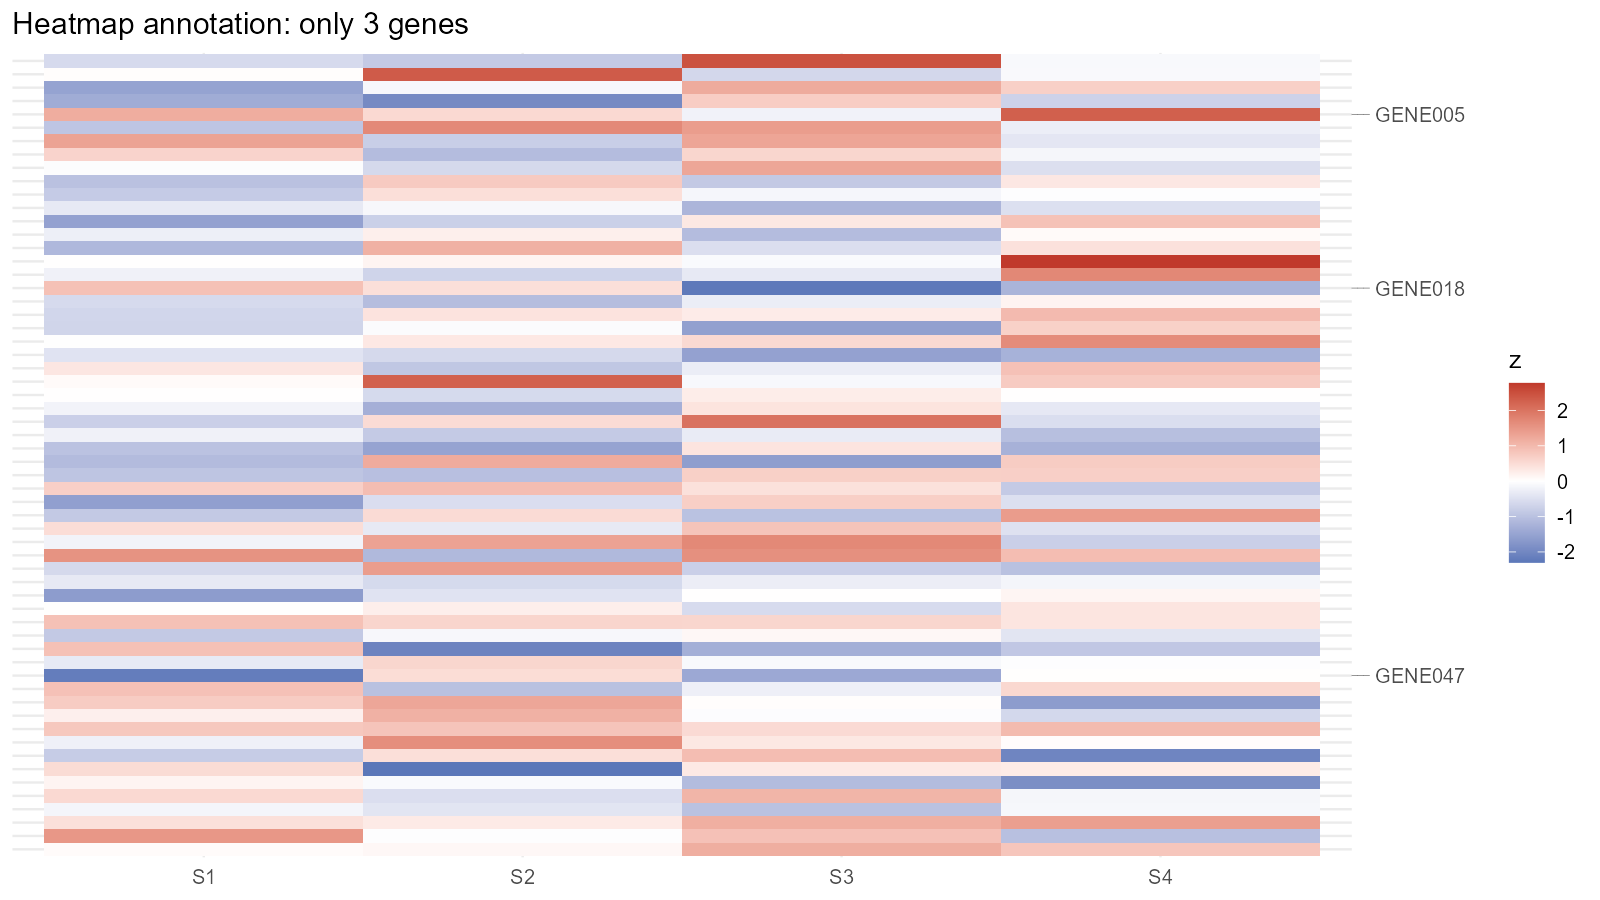
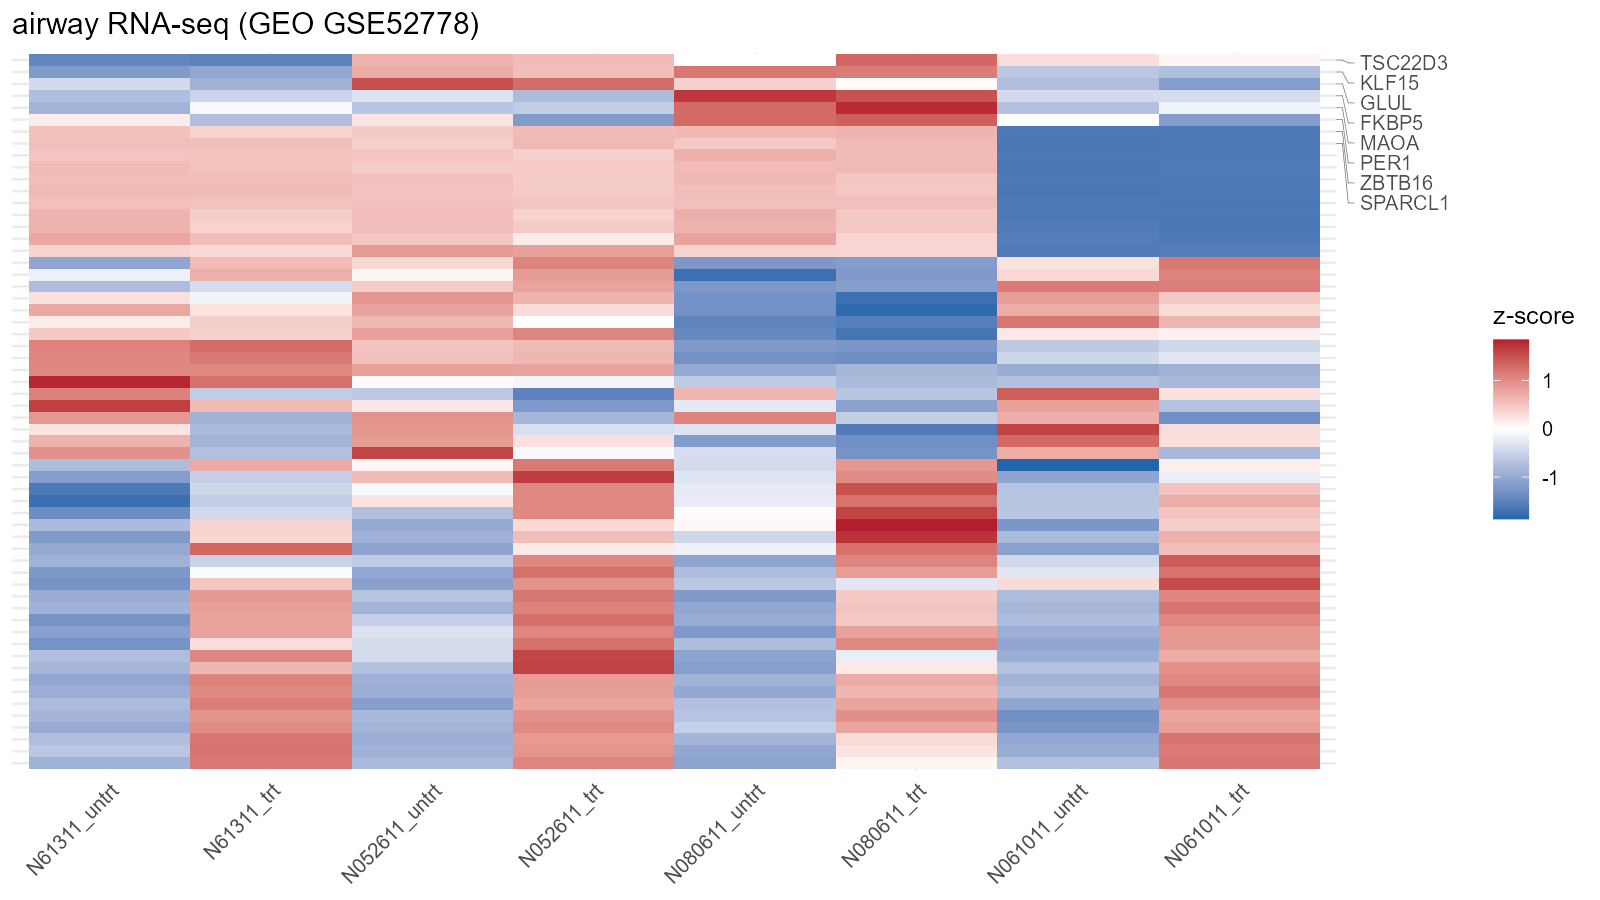
Use real GEO RNA-seq data (airway, GSE52778) for the heatmap examples
- vignettes (zh + en): the anno_mark section now plots the airway
  experiment (4 airway smooth muscle cell lines +/- dexamethasone) and
  labels the 8 glucocorticoid-responsive genes that cluster together
- README: same real-data figure (man/figures/README-anno-mark-1.png)
- new inst/examples/09-heatmap-rnaseq.R
- DESCRIPTION: airway and SummarizedExperiment added to Suggests

diff --git a/README.md b/README.md
@@ -193,12 +193,28 @@ axis and label only the rows you care about. Duplicate the axis with
 `guide_axis_smart()` on the copy:
 
 ``` r
-set.seed(11)
-genes <- paste0("GENE", sprintf("%03d", 1:60))
+## real RNA-seq data from GEO: airway (GSE52778), 4 cell lines +/- dexamethasone
+library(airway)
+data(airway, package = "airway")
+
+counts <- SummarizedExperiment::assay(airway, "counts")
+cpm <- t(t(counts) / colSums(counts)) * 1e6
+logcpm <- log2(cpm[rowSums(cpm > 1) >= 4, ] + 1)
+
+vars <- apply(logcpm, 1, var)
+z <- t(scale(t(logcpm[names(sort(vars, decreasing = TRUE))[1:60], ])))
+ord <- hclust(dist(z), method = "ward.D2")$order
+sym <- SummarizedExperiment::rowData(airway)$symbol[match(rownames(z), rownames(airway))]
+gene_labels <- ifelse(is.na(sym[ord]) | sym[ord] == "", rownames(z)[ord], sym[ord])
+
+cd <- as.data.frame(SummarizedExperiment::colData(airway))
+sample_lab <- factor(paste(cd$cell, cd$dex, sep = "_"),
+                     levels = paste(cd$cell, cd$dex, sep = "_"))
+
 df_gene <- data.frame(
-  gene = factor(genes, levels = rev(genes)),
-  sample = rep(paste0("S", 1:4), each = 60),
-  z = round(rnorm(240), 2)
+  gene = factor(rep(rev(gene_labels), times = nrow(cd)), levels = rev(gene_labels)),
+  sample = factor(rep(sample_lab, each = nrow(z)), levels = levels(sample_lab)),
+  z = as.vector(z[ord, ])
 )
 
 ggplot(df_gene, aes(x = sample, y = gene, fill = z)) +
@@ -206,24 +222,35 @@ ggplot(df_gene, aes(x = sample, y = gene, fill = z)) +
   scale_y_discrete(
     guide = guide_none(),
     sec.axis = dup_axis(
-      guide = guide_axis_smart(which = c("GENE005", "GENE018", "GENE047"))
+      guide = guide_axis_smart(which = gene_labels[1:8])
     )
   ) +
-  scale_fill_gradient2(low = "#2E5EAA", mid = "white", high = "#C0392B") +
-  labs(x = NULL, y = NULL, title = "Heatmap annotation: only 3 genes") +
-  theme_minimal(base_size = 12)
+  scale_fill_gradient2(low = "#2166ac", mid = "white", high = "#b2182b",
+                       midpoint = 0, name = "z-score") +
+  labs(x = NULL, y = NULL, title = "airway RNA-seq (GEO GSE52778)") +
+  theme_minimal(base_size = 12) +
+  theme(axis.text.x = element_text(angle = 45, hjust = 1))
 ```
 
 <div class="figure">
 
-<img src="man/figures/README-anno-mark-1.png" alt="Heatmap annotation: only three genes are labelled on a duplicated right axis" width="100%" />
+<img src="man/figures/README-anno-mark-1.png" alt="Real RNA-seq data (GEO GSE52778): only the 8 glucocorticoid-responsive genes are labelled on a duplicated right axis" width="100%" />
 <p class="caption">
 
-Heatmap annotation: only three genes are labelled on a duplicated right
-axis
+Real RNA-seq data (GEO GSE52778): only the 8 glucocorticoid-responsive
+genes are labelled on a duplicated right axis
 </p>
 
 </div>
+
+Real data from GEO: the
+[`airway`](https://bioconductor.org/packages/airway) package holds an
+RNA-seq experiment on human airway smooth muscle cells (GEO
+[GSE52778](https://www.ncbi.nlm.nih.gov/geo/query/acc.cgi?acc=GSE52778)),
+four cell lines with and without dexamethasone. The eight genes labelled
+here are the glucocorticoid-responsive genes that cluster together at
+the top of the heatmap. `airway` is a `Suggests` dependency; install it
+with `BiocManager::install("airway")` when you re-render this README.
 
 The same works for a cluster of neighbouring categories: select it with
 `which = 24:35` and the guide stacks the labels over several rows

diff --git a/NEWS.md b/NEWS.md
@@ -27,6 +27,7 @@
 
 * 文档：中文 vignette（`vignette("ggsmartext")`）、英文 vignette
   （`vignette("ggsmartext-en")`）、英文 README、22 张示例图
-  （`inst/examples/07-gallery.R`）。
+  （`inst/examples/07-gallery.R`）。热图标注示例使用真实 GEO RNA-seq 数据
+  （`airway`，GEO GSE52778，见 `inst/examples/09-heatmap-rnaseq.R`）。
 
 * 需要 R >= 4.1、ggplot2 >= 4.0.0。
